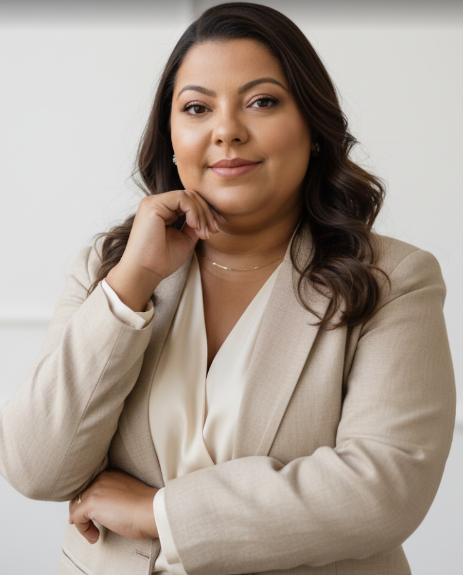
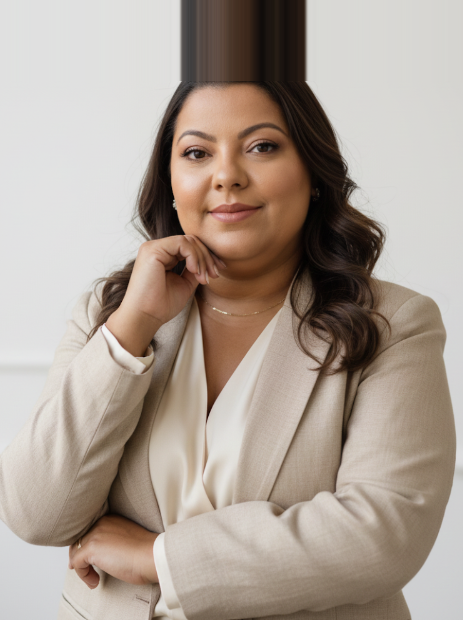
fix(landing): garantir exibicao 100% integral e sem cortes da foto da psicologa em todos os dispositivos

diff --git a/public/landing/index.html b/public/landing/index.html
@@ -333,8 +333,8 @@
             <div class="absolute -inset-2 sm:-inset-4 bg-sand-100 rounded-3xl -rotate-1 sm:-rotate-2 -z-10"></div>
             <div class="relative rounded-2xl overflow-hidden shadow-xl sm:shadow-2xl border border-sand-200/80 bg-sand-50 tilt-card" data-tilt>
               <!-- Photo Container: Full uncropped view on all devices -->
-              <div class="relative w-full overflow-hidden bg-sand-100 flex items-center justify-center">
-                <img alt="Psicóloga Kesley Lilian da Silva Faria de Souza" class="w-full h-auto max-h-[580px] object-contain block mx-auto transition-transform duration-500 hover:scale-[1.01]" src="/landing/assets/kesley-sobre.webp" onerror="this.onerror=null; this.src='/landing/assets/kesley-sobre.png'"/>
+              <div class="relative w-full overflow-hidden bg-[#ded8ce] flex items-center justify-center">
+                <img alt="Psicóloga Kesley Lilian da Silva Faria de Souza" class="w-full h-auto object-contain block mx-auto transition-transform duration-500 hover:scale-[1.01]" src="/landing/assets/kesley-sobre.webp" onerror="this.onerror=null; this.src='/landing/assets/kesley-sobre.png'"/>
                 
                 <!-- CRP badge: top-right with high contrast -->
                 <div class="absolute top-3 right-3 sm:top-4 sm:right-4 bg-white/95 backdrop-blur-md px-3 py-1 sm:px-3.5 sm:py-1.5 rounded-full border border-sand-200 shadow-xs text-[10px] sm:text-[11px] font-semibold text-moss-800 tracking-wider z-10">
